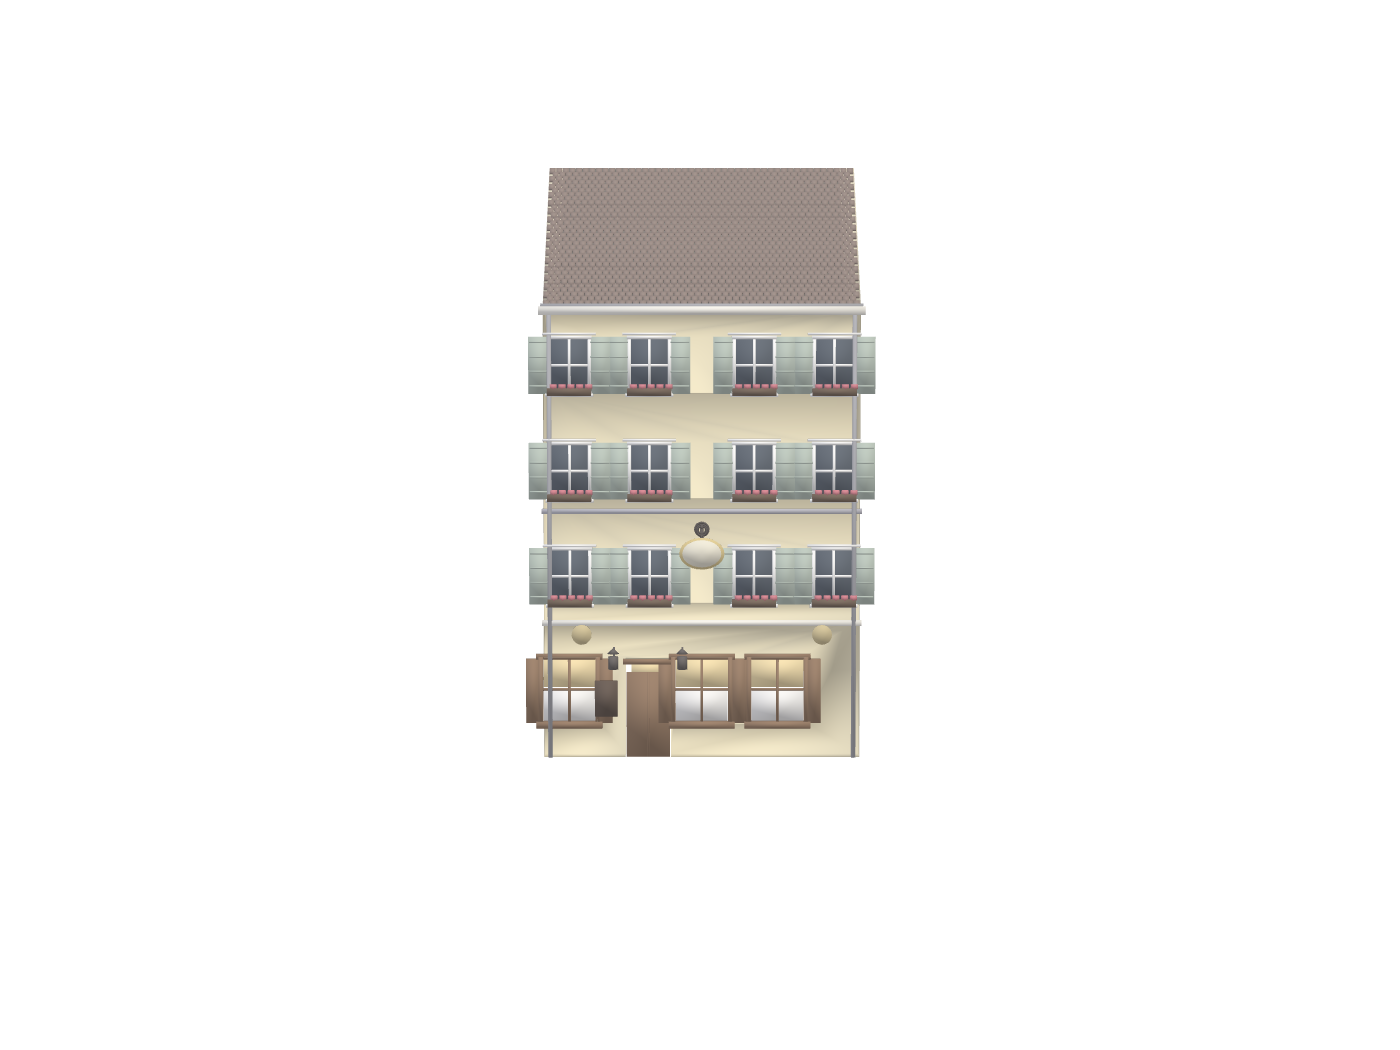
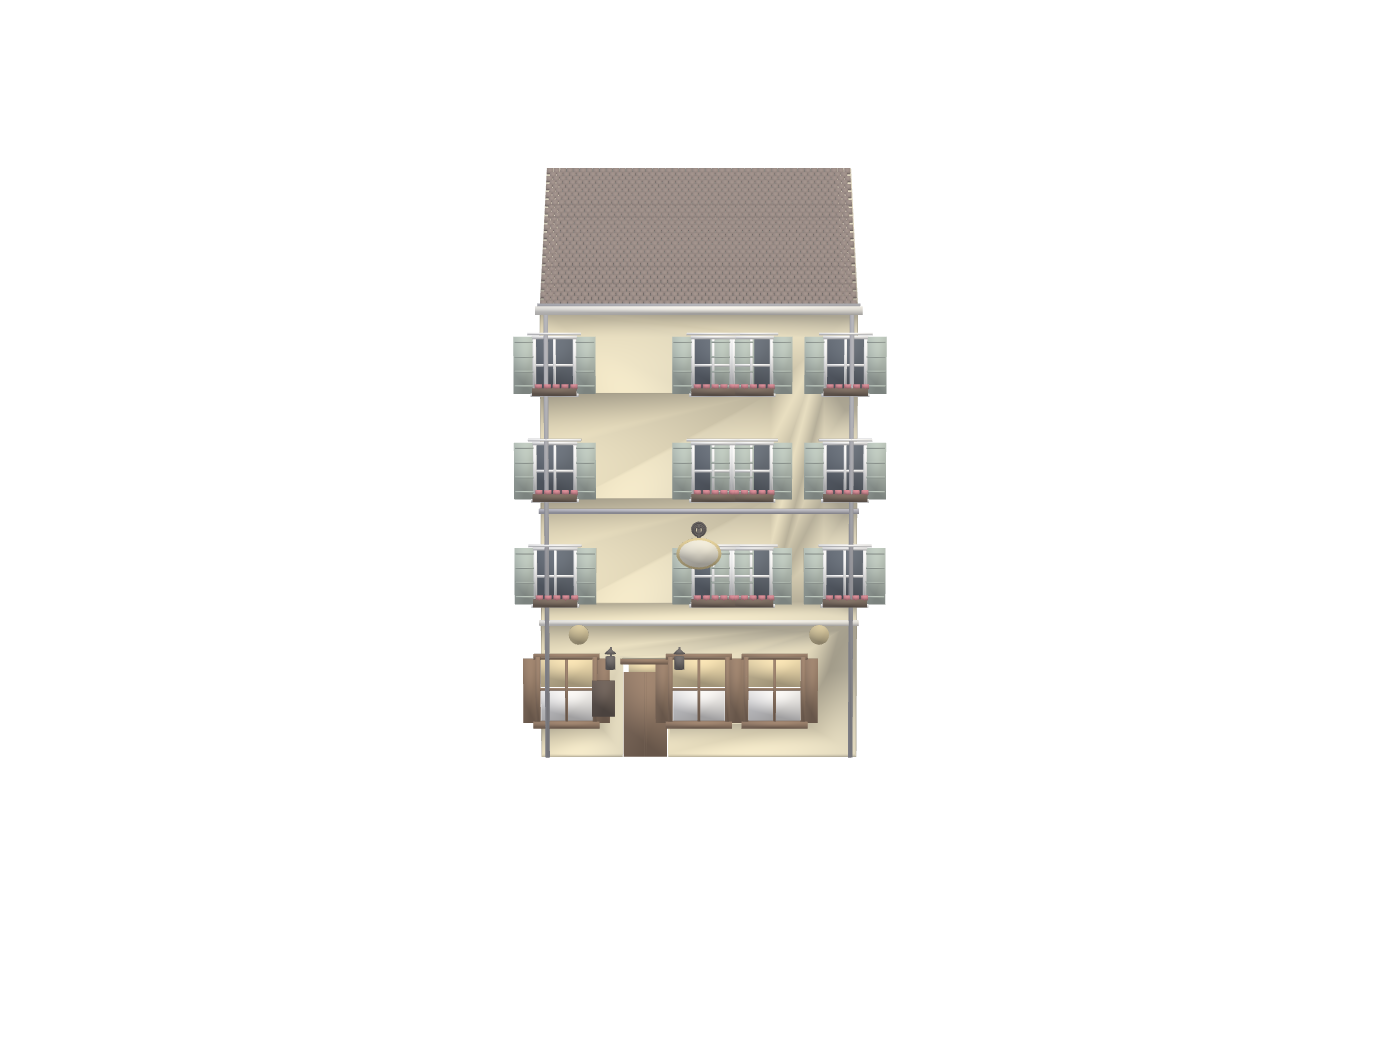
revert(oberkirch): Auto-Achsen raus (Koordinaten-Bezug falsch) -> zurueck auf fassade_messen
Fehler: regularisierte x_fracs sind FENSTER-Box-relativ, als FASSADEN-relativ (xW)
verwendet -> Fenster ragten ueber den Rand, Gebaeude wirkte zu schmal. Zurueck auf
fassade_messen (besserer Stand). bauwerk_generator behaelt korrekte Fassaden-Normierung
(ueber Mess-Box), aber die ist noch nicht genau genug -> fuer Oberkirch deaktiviert.
Fehler-Log in PROTOKOLL_VALIDATOR.md.

Changed region(s): [[0.3686, 0.1524, 0.645, 0.7314], [0.4914, 0.64, 0.5221, 0.701]]

diff --git a/tools/bauwerk_generator.py b/tools/bauwerk_generator.py
@@ -135,18 +135,23 @@ class Ctx:
             self.measured = md
             print(f"   [auto-gemessen aus Foto] W={W} m  EG-Oberkante={eg_top} m  Achsen={axes}")
         # --- Fenster-Achsen aus ML+Struktur-Regularisierung (fenster_ml.py) ---
-        fa = f.get("fenster_auto")
-        if fa:
+        # WICHTIG: die regularisierten x_fracs sind relativ zur FENSTER-Box (schmaler als die
+        # Fassade). Erst auf FASSADEN-Bruchteile umrechnen (über die Mess-Box), sonst ragen die
+        # Fenster über den Rand. Nur nutzen, wenn die Mess-Box bekannt ist.
+        fa = f.get("fenster_auto"); meas_box = (cfg.get("measure") or {}).get("box")
+        if fa and meas_box:
             import json as _j, os as _o2
             if _o2.path.exists(fa):
-                d = _j.load(open(fa))
+                d = _j.load(open(fa)); bb = d.get("building_box_frac")
                 full = [r for r in d.get("rows", []) if r["n"] >= 2]
-                if full:
-                    main = max(full, key=lambda r: r["n"])        # breiteste Reihe = die Fensterachsen
-                    axes = [float(x) for x in main["x_fracs"]]
-                    nfl_auto = len(full)                          # Fassaden-Fensterreihen
-                    f.setdefault("_nfl_auto", nfl_auto)
-                    print(f"   [Fenster-Achsen aus ML+Struktur] {len(axes)} Achsen {axes}, {nfl_auto} Reihen")
+                if full and bb:
+                    main = max(full, key=lambda r: r["n"])
+                    fl, fr = float(meas_box[0]), float(meas_box[2])     # Fassaden-Rand (Bildfrakt.)
+                    axes = []
+                    for xf in main["x_fracs"]:
+                        xi = bb[0] + float(xf) * (bb[2] - bb[0])        # Fenster-x in Bildfrakt.
+                        axes.append(round((xi - fl) / max(fr - fl, 1e-6), 3))  # -> Fassaden-Frakt.
+                    print(f"   [Fenster-Achsen aus ML+Struktur, fassaden-normiert] {axes}")
         self.W = float(W); self.eg_top = float(eg_top)
         # --- DACH: First aus GEMESSENER Front-Dachhöhe (perspektiv-echt), Tiefe separat gekappt ---
         self.lod2_depth = float(m["lod2_depth"]); self.lod2_ridge = float(m["lod2_ridge"])

diff --git a/modelle/PROTOKOLL_VALIDATOR.md b/modelle/PROTOKOLL_VALIDATOR.md
@@ -80,3 +80,15 @@ CMP-Facade, venv /tmp/ml). Farb-/perspektiv-robust, fängt Rundbögen. Dominant-
 Nachbarn (22→14). Multi-Foto-Konsens funktioniert NUR auf ML-Basis: Heuristik 13/3/5/10 (schräg/
 Nacht kaputt) vs ML 14/13/14/17 → robuster Median 14. LEHRE: an der Heuristik-Rausch-Wand ist ein
 vortrainiertes Open-Source-Netz (CPU reicht) der Hebel, nicht noch ein Schwellwert.
+
+## Fehler-Log (laufend, auf User-Wunsch)
+**F1 (2026-10-29) Koordinaten-Bezugssystem verwechselt.** Traufständig-Wiring: die regularisierten
+x_fracs sind relativ zur FENSTER-Bounding-Box (schmaler als die Fassade). Ich habe sie als
+FASSADEN-Bruchteile (×W) verwendet → Oberkirch-Fenster zu weit gespreizt, ragten über den Rand.
+User: „zu schmal, Fenster ragen raus, davor war es besser." ROOT: Bezugssystem nicht geprüft
+(Detektor-Box ≠ Fassade); Mess-Box ≠ exakter Fassadenrand → Umrechnung asymmetrisch. META-FEHLER
+(wieder): committet + „funktioniert" gesagt, BEVOR ich den Render an den Rändern/Proportionen
+genau geprüft habe (die Fenster am Rand waren sichtbar, ich hab's übersehen) → [[score_ist_nicht_hinschauen]].
+FIX: fenster_auto aus Oberkirch-Config raus → zurück auf fassade_messen (funktioniert). LEHRE:
+(1) vor JEDER Übernahme von Detektor-Koordinaten das Bezugssystem explizit umrechnen + prüfen;
+(2) nach JEDER Änderung Render GANZ anschauen (Ränder, Breite, Proportion), nicht nur „passt grob".
